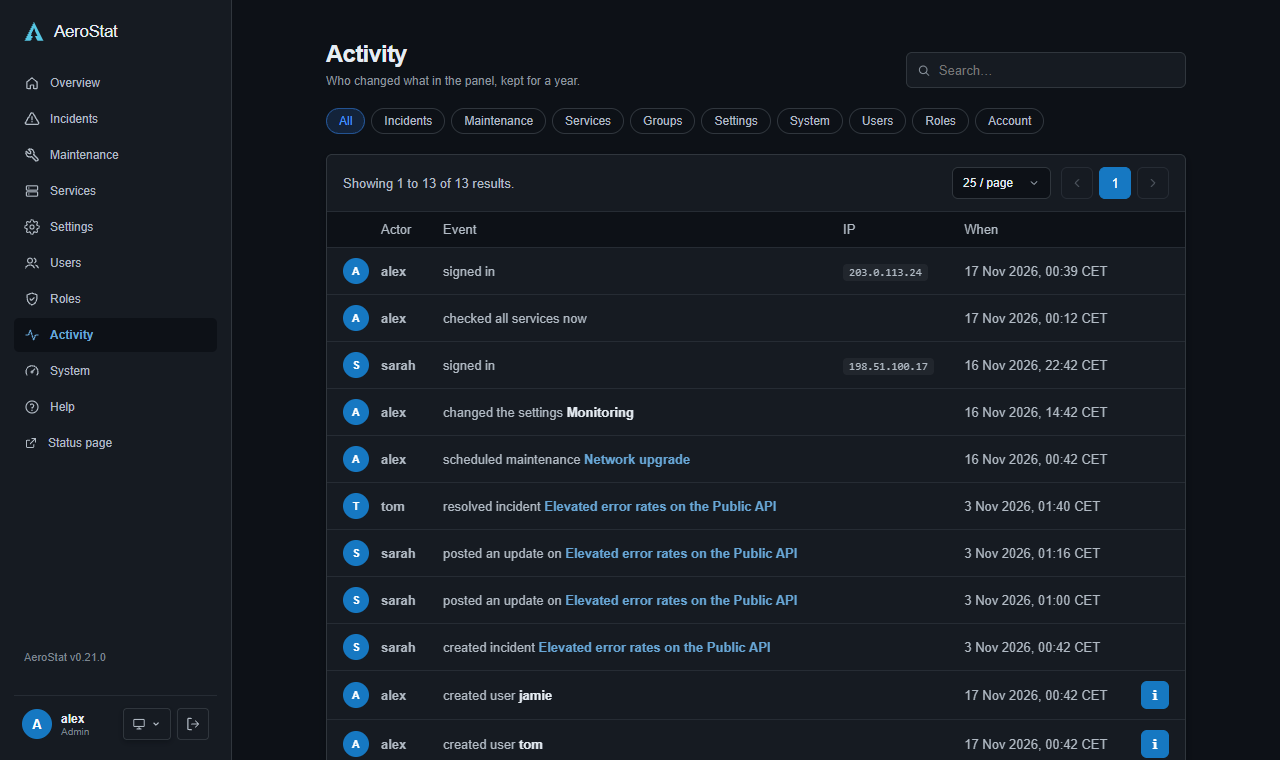
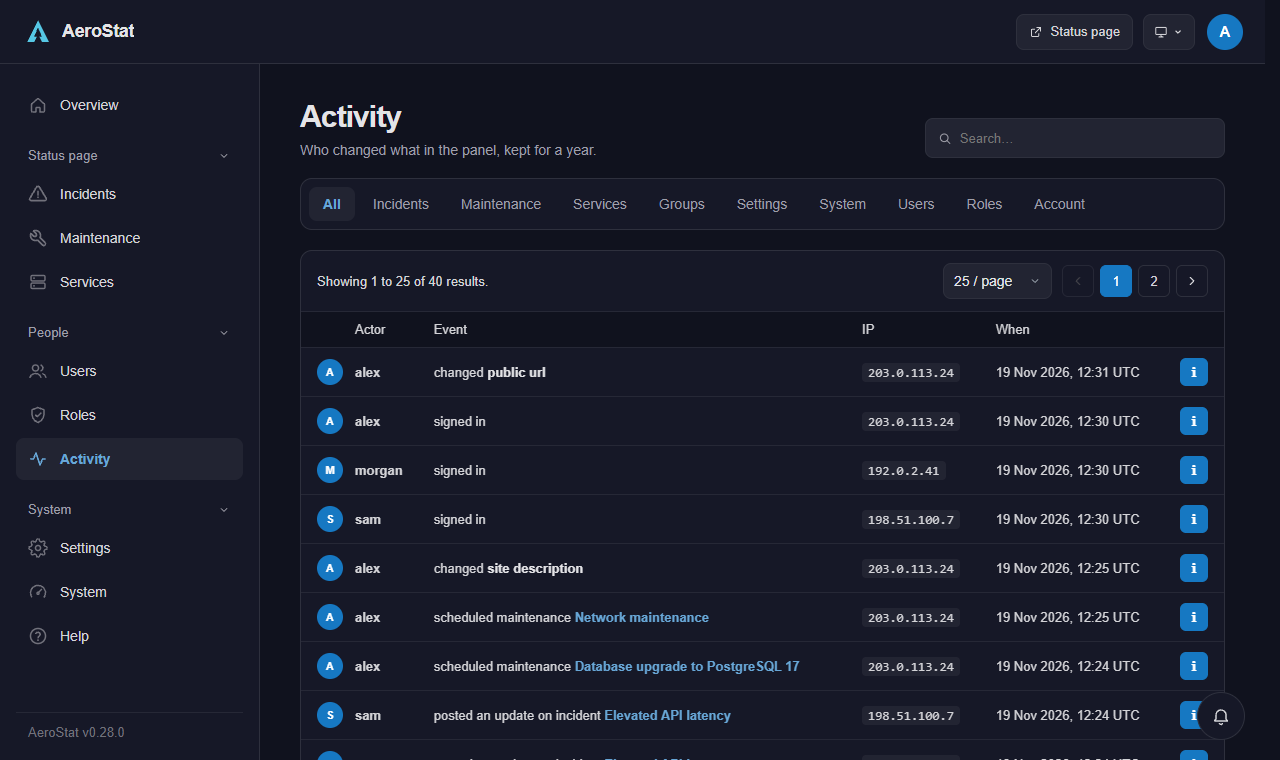
docs: colours match the new panel, new screenshots

diff --git a/docs/.vitepress/theme/custom.css b/docs/.vitepress/theme/custom.css
@@ -2,23 +2,25 @@
 .dark {
     --vp-font-family-base: Inter, ui-sans-serif, system-ui, -apple-system, "Segoe UI", Roboto, Helvetica, Arial, sans-serif;
 
-    --vp-c-bg: #111317;
-    --vp-c-bg-alt: #0d0f12;
-    --vp-c-bg-elv: #181b21;
-    --vp-c-bg-soft: #181b21;
+    --vp-c-bg: #10121e;
+    --vp-c-bg-alt: #161827;
+    --vp-c-bg-elv: #161827;
+    --vp-c-bg-soft: #161827;
 
-    --vp-c-border: #2a2f38;
-    --vp-c-divider: #2a2f38;
-    --vp-c-gutter: #0d0f12;
+    --vp-c-border: #2e303d;
+    --vp-c-divider: #2e303d;
+    --vp-c-gutter: #10121e;
 
-    --vp-c-text-1: #f2f4f7;
-    --vp-c-text-2: #c3c9d3;
-    --vp-c-text-3: #8b939f;
+    --vp-c-text-1: #e4e4e7;
+    --vp-c-text-2: #b4b4bc;
+    --vp-c-text-3: #71717b;
 
-    --vp-c-brand-1: #56c7e4;
-    --vp-c-brand-2: #3fb3d3;
+    --vp-c-brand-1: #67a7d7;
+    --vp-c-brand-2: #4f97cf;
     --vp-c-brand-3: #1678c2;
-    --vp-c-brand-soft: rgba(86, 199, 228, 0.14);
+    --vp-c-brand-soft: rgba(22, 120, 194, 0.16);
+
+    --vp-c-default-soft: #222432;
 
     --vp-button-brand-bg: #1678c2;
     --vp-button-brand-hover-bg: #1a86d6;
@@ -26,9 +28,18 @@
     --vp-button-brand-text: #ffffff;
     --vp-button-brand-hover-text: #ffffff;
     --vp-button-brand-active-text: #ffffff;
+    --vp-button-alt-bg: #222432;
+    --vp-button-alt-border: #2e303d;
+    --vp-button-alt-hover-bg: #2a2c3b;
 
-    --vp-home-hero-name-color: #f2f4f7;
-    --vp-code-block-bg: #181b21;
+    --vp-nav-bg-color: #161827;
+    --vp-sidebar-bg-color: #161827;
+    --vp-local-search-bg: #161827;
+    --vp-local-search-result-bg: #10121e;
+
+    --vp-home-hero-name-color: #ffffff;
+    --vp-code-block-bg: #161827;
+    --vp-code-bg: #222432;
 }
 
 .VPHero .name .clip {
@@ -36,5 +47,53 @@
 }
 
 .VPHero .text {
-    color: #f2f4f7;
+    color: #ffffff;
+}
+
+.VPNavBar {
+    border-bottom: 1px solid var(--vp-c-divider);
+}
+
+.VPNavBar.has-sidebar .content-body,
+.VPNavBar .divider {
+    background: var(--vp-nav-bg-color);
+}
+
+.VPSidebar {
+    border-right: 1px solid var(--vp-c-divider);
+}
+
+.VPSidebarItem .indicator {
+    display: none;
+}
+
+.VPSidebarItem.level-1 > .item {
+    padding: 0 10px;
+    border-radius: 8px;
+}
+
+.VPSidebarItem.level-1 > .item:hover {
+    background: #1c1e2d;
+}
+
+.VPSidebarItem.level-1.is-active > .item {
+    background: #222432;
+}
+
+.VPSidebarItem.level-1.is-active > .item .text {
+    font-weight: 600;
+}
+
+.VPFeature,
+.custom-block,
+.vp-doc div[class*='language-'] {
+    border-radius: 12px;
+}
+
+.VPFeature {
+    border: 1px solid var(--vp-c-divider);
+}
+
+.vp-doc table {
+    border-radius: 12px;
 }
